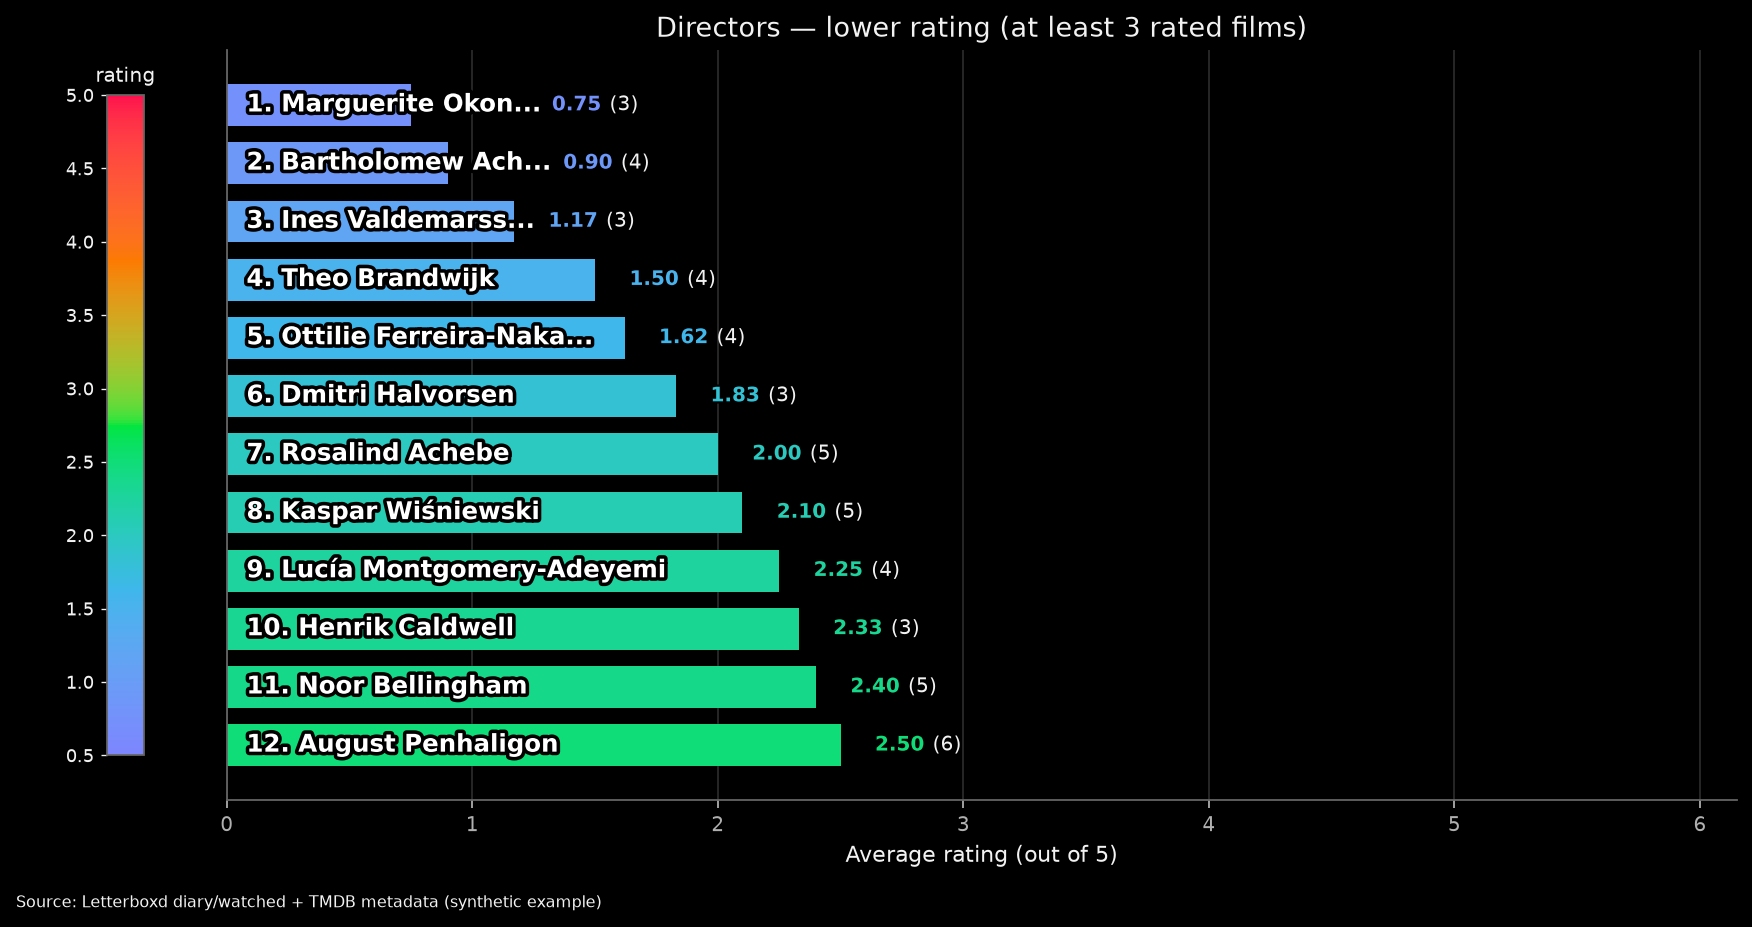
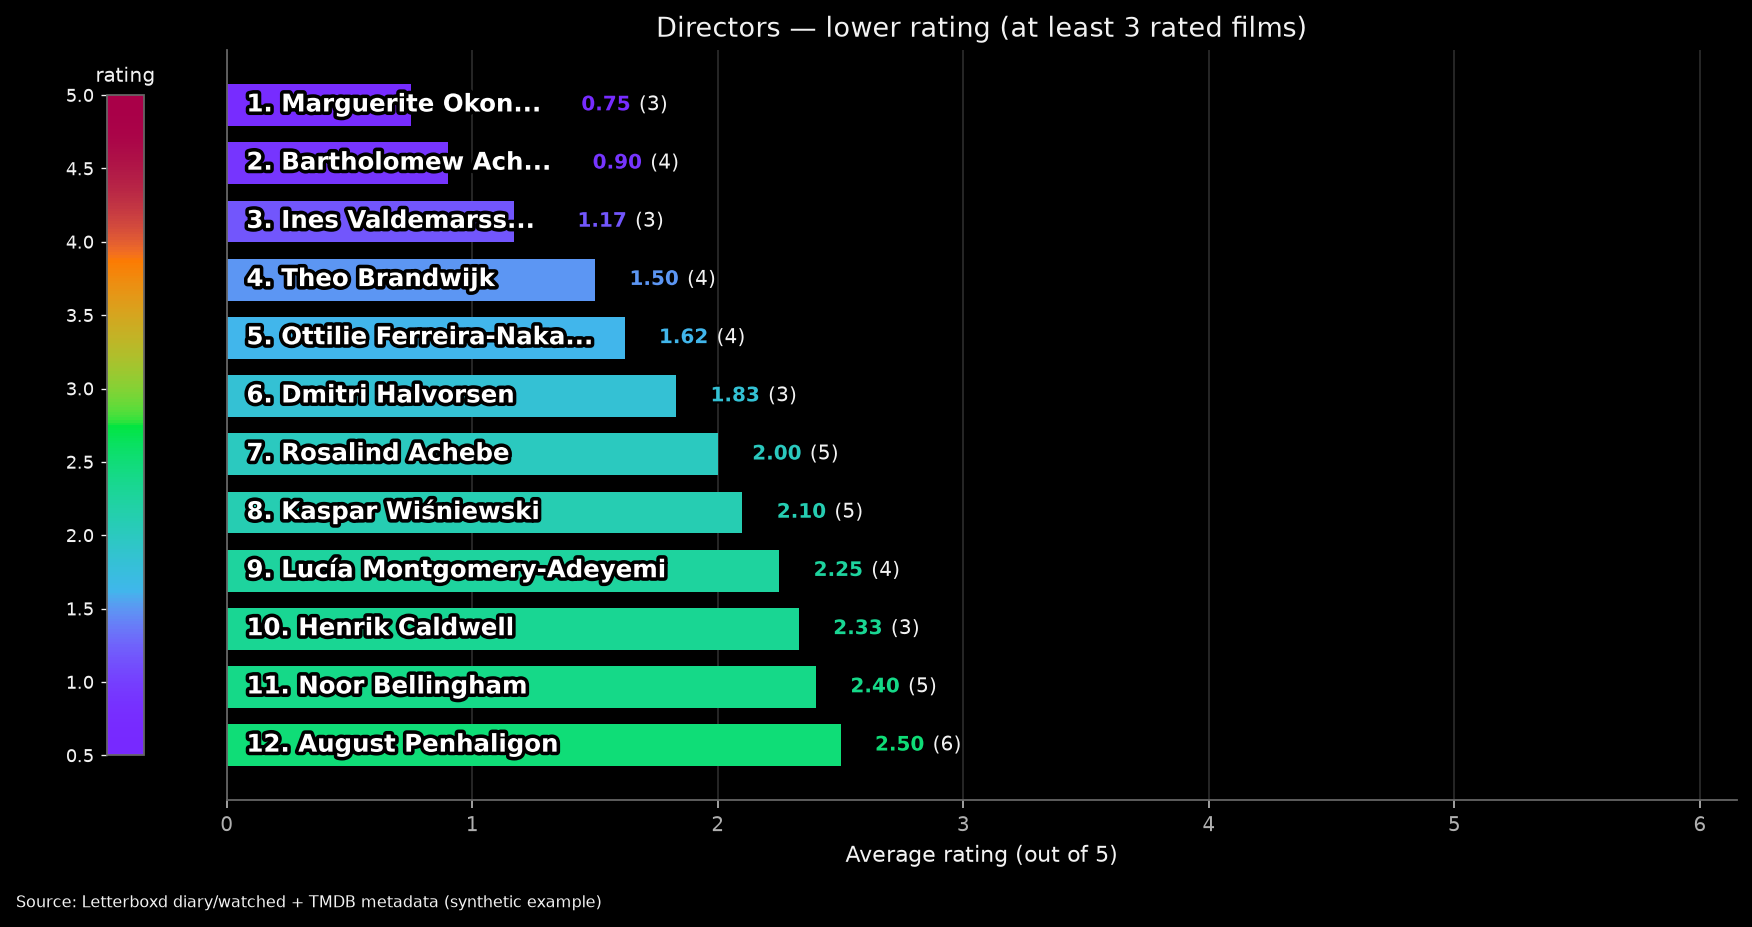
Refresh README chart images for the purple and burgundy palette ends.
Regenerate every chart illustration from the same synthetic data, add a
20-row directors example that spans the whole rating scale, and save the
opaque PNGs as RGB with optimization (no pixel changes).

diff --git a/README.md b/README.md
@@ -14,19 +14,23 @@ You send the ZIP from Letterboxd → Settings → Import & Export → Export You
 
 ![Bar chart of film watches per year, each bar labelled with its count and a bold colored average rating](docs/images/watches-by-year.png)
 
-*Watches per year, with the count and the bold colored average rating above each bar.*
+*Watches per year, with the count and the bold colored average rating above each bar. Bar colors run from purple for the earliest year to burgundy for the latest.*
 
 ![Weekday and month bar charts stacked by watch year](docs/images/weekday-month-by-year.png)
 
-*When you watch: weekdays and months, stacked by watch year.*
+*When you watch: weekdays and months, stacked by watch year in the same year colors.*
 
 ![Horizontal bars of the best-rated release years with averages and rated-film counts](docs/images/release-years-higher-rating.png)
 
-*Release years with the highest average rating, among years with at least 3 rated films.*
+*Release years with the highest average rating, among years with at least 3 rated films. Bar color follows the rating scale on the left.*
 
 ![Directors with the lowest average rating; short bars show the first 15 letters of the name with an ellipsis](docs/images/directors-lower-rating.png)
 
 *Directors with the lowest average rating. A bar too short for 15 letters shows the first 15 and an ellipsis.*
+
+![Twenty directors from a 4.80 average down to 1.00, colored from burgundy through orange, green, and blue to purple](docs/images/directors-higher-rating-20.png)
+
+*A top 20 spanning the whole rating scale: burgundy near 5, logo orange near 3.9, green near 2.75, logo blue near 1.6, and purple near 1. The three shortest bars show 15 letters and an ellipsis past the bar, with the same gap before the rating as after a normal bar.*
 
 ## Commands
 
